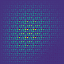
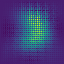
10 epochs 5000 images

diff --git a/src/python/model/modelDemo.py b/src/python/model/modelDemo.py
@@ -18,12 +18,12 @@ digits = [i for i in range(10)]
 def one_hot(y_train):
     res = []
     for i in y_train:
-        one = [0 for i in range(10)]
+        one = [0 for j in range(10)]
         one[i] = 1
         res += [one]
     return res
 
-y_train = one_hot(y_train)[:200]
+y_train = one_hot(y_train)[:5000]
 
 ### GAN section
 
@@ -116,7 +116,7 @@ with tf.Session() as sess:
             _=sess.run(dtrainer,feed_dict={real_images:batch_im,z:batch_z,y1:batch_y,y2:batch_y,y3:batch_y})
             _=sess.run(gtrainer,feed_dict={z:batch_z,y1:batch_y,y2:batch_y,y3:batch_y})
         print("Finished Epoch", epoch)
-        oz = np.array([random.randint(0,10)])
+        oz = np.array([random.randint(0,9)])
         oz = one_hot(oz)
         samplez=np.random.uniform(-1,1,size=(1,100))
         samples.append(sess.run(generator(z,y1,reuse=True), feed_dict={z:samplez,y1:oz}))
